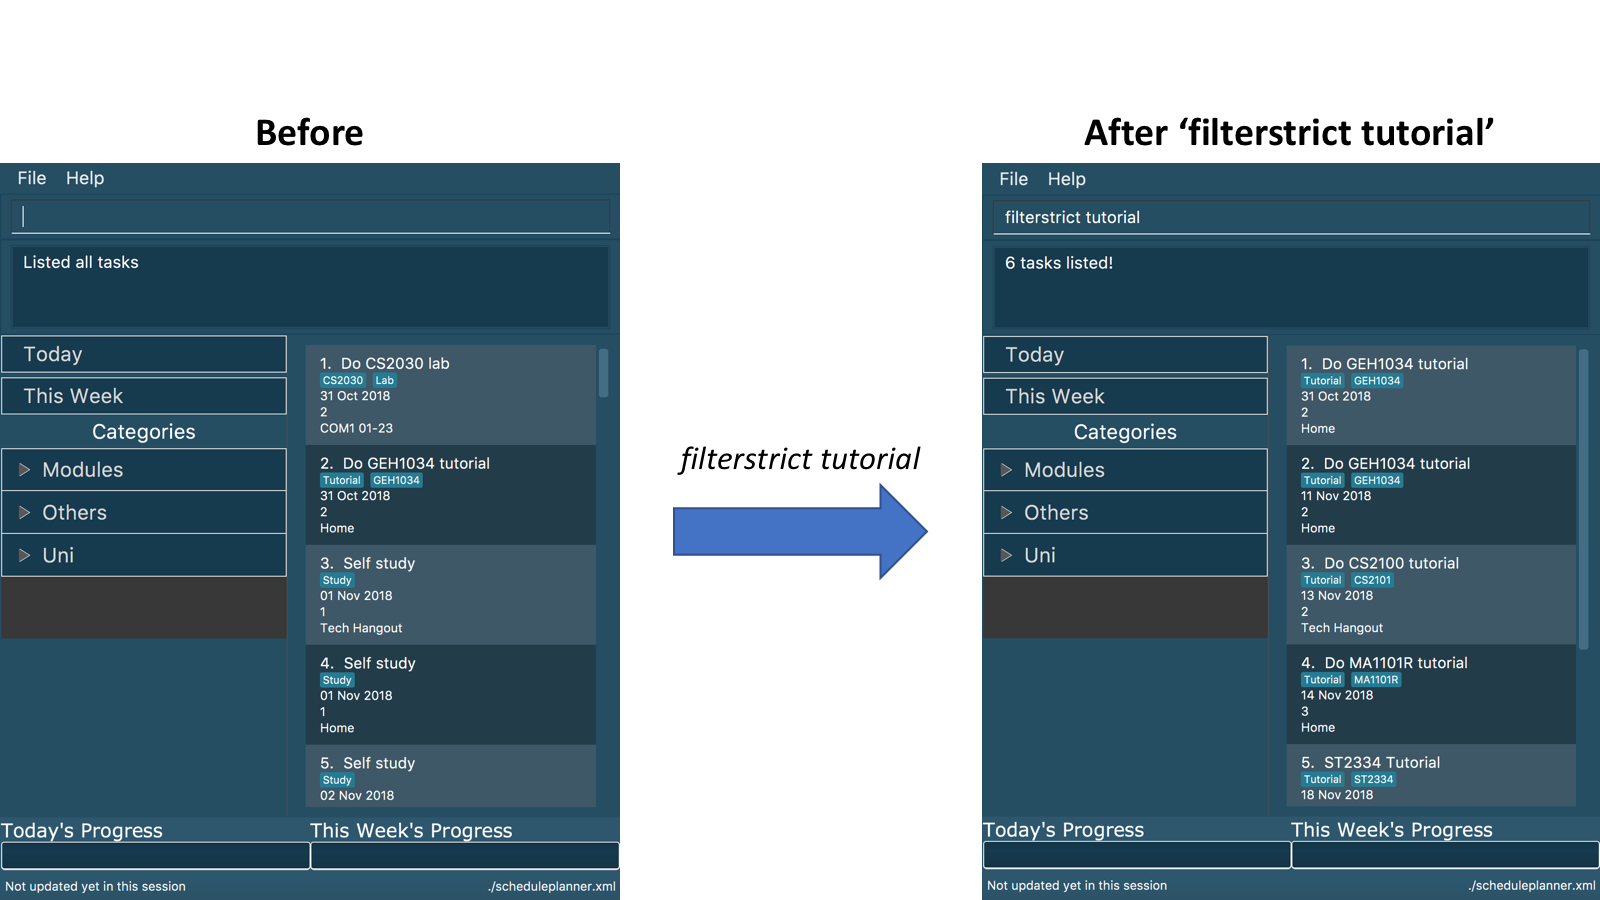
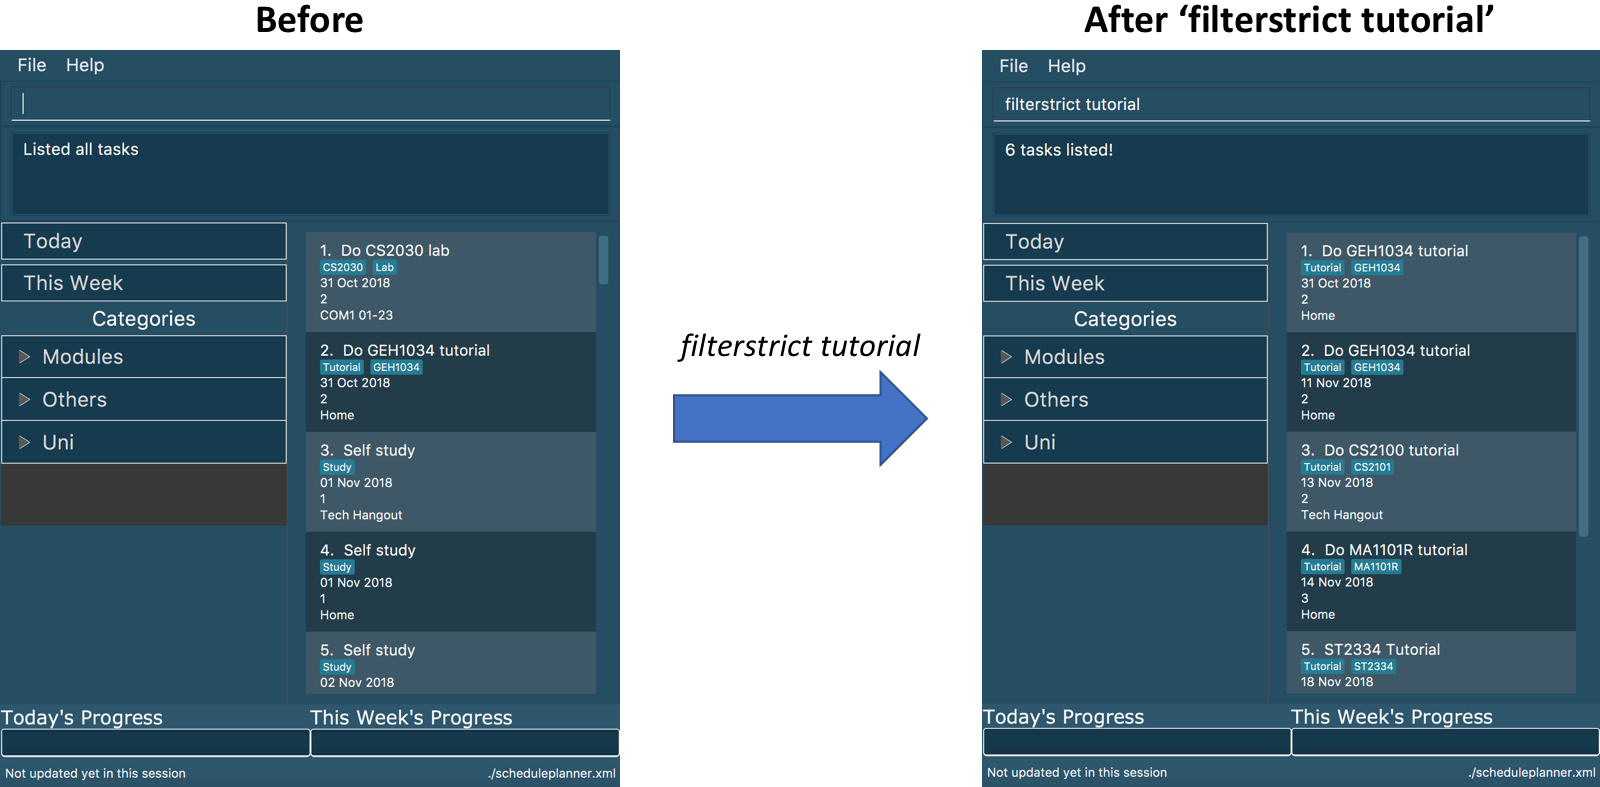
Rebuild pages at f556c0d7fc7fc05fd6a1696571651e71655f04cb

diff --git a/team/thaddeuslzy.html b/team/thaddeuslzy.html
@@ -141,56 +141,72 @@ listed instead of returning an error. This logic error was resolved.</p>
 <div class="ulist">
 <ul>
 <li>
-<p>Project management:</p>
+<p><strong>Project management</strong>:</p>
 <div class="ulist">
 <ul>
 <li>
-<p>Managed releases <code>v1.3.1</code> (1 release) on GitHub</p>
+<p>Managed releases <code>v1.3.1</code> (1 release) on GitHub:<br>
+<a href="https://github.com/CS2103-AY1819S1-T12-3/main/releases/tag/v1.3.1">1.3.1</a></p>
 </li>
 <li>
-<p>Morphed and transformed large sections of code in <strong>Address Book (Level 4)</strong> into current product <strong>Student Schedule
-Planner</strong> :</p>
+<p>Morphed large sections of code in <strong>Address Book (Level 4)</strong> into current product <strong>Student Schedule Planner</strong> :
+<a href="https://github.com/CS2103-AY1819S1-T12-3/main/pull/41">#41</a></p>
+</li>
+<li>
+<p>Added preloaded test cases for jar file, so that users may test commands:
+<a href="https://github.com/CS2103-AY1819S1-T12-3/main/pull/140">#140</a></p>
 </li>
 </ul>
 </div>
 </li>
 <li>
-<p>Documentation:</p>
+<p><strong>Documentation</strong>:</p>
 <div class="ulist">
 <ul>
 <li>
-<p>Enhanced Introduction for DevGuide</p>
+<p>Enhanced Introduction for DevGuide:
+<a href="https://github.com/CS2103-AY1819S1-T12-3/main/pull/77">#77</a></p>
 </li>
 <li>
-<p>Added Use Cases for DevGuide:</p>
+<p>Added Use Cases for DevGuide:
+<a href="https://github.com/CS2103-AY1819S1-T12-3/main/pull/115">#115</a></p>
 </li>
 <li>
-<p>Added Instructions for Manual Testing in Developer Guide:</p>
+<p>Added Instructions for Manual Testing in Developer Guide:
+<a href="https://github.com/CS2103-AY1819S1-T12-3/main/pull/251">#251</a></p>
 </li>
 <li>
-<p>Did cosmetic tweaks to existing contents of the User Guide:</p>
+<p>Improvements to flow of existing contents of the User Guide:
+<a href="https://github.com/CS2103-AY1819S1-T12-3/main/pull/64">#64</a> ,
+<a href="https://github.com/CS2103-AY1819S1-T12-3/main/pull/140">#140</a>,
+<a href="https://github.com/CS2103-AY1819S1-T12-3/main/pull/">#245</a> ,</p>
 </li>
 <li>
-<p>Did cosmetic tweaks to existing contents of the Developer Guide:</p>
+<p>Improvements to flow of existing contents of the Developer Guide:
+<a href="https://github.com/CS2103-AY1819S1-T12-3/main/pull/64">#64</a> ,
+<a href="https://github.com/CS2103-AY1819S1-T12-3/main/pull/87">#87</a> ,
+<a href="https://github.com/CS2103-AY1819S1-T12-3/main/pull/221">#221</a> ,
+<a href="https://github.com/CS2103-AY1819S1-T12-3/main/pull/224">#224</a> ,
+<a href="https://github.com/CS2103-AY1819S1-T12-3/main/pull/245">#245</a></p>
 </li>
 </ul>
 </div>
 </li>
 <li>
-<p>Community:</p>
+<p><strong>Community</strong>:</p>
 <div class="ulist">
 <ul>
 <li>
-<p>PRs reviewed (with non-trivial review comments):</p>
+<p>PRs reviewed (with non-trivial review comments):
+<a href="https://github.com/CS2103-AY1819S1-T12-3/main/pull/76">#76</a></p>
 </li>
 <li>
-<p>Reported bugs and suggestions for other teams in the class (examples:  <a href="https://github.com">1</a>, <a href="https://github.com">2</a>, <a href="https://github.com">3</a>)</p>
+<p>Reported bugs and suggestions for other teams in the class:
+Examples: <a href="https://github.com/CS2103-AY1819S1-T10-1/main/issues/110">1</a> ,
+<a href="https://github.com/CS2103-AY1819S1-T10-1/main/issues/106">2</a></p>
 </li>
 </ul>
 </div>
-</li>
-<li>
-<p>Tools:</p>
 </li>
 </ul>
 </div>
@@ -209,7 +225,8 @@ Planner</strong> :</p>
 </colgroup>
 <tbody>
 <tr>
-<td class="tableblock halign-left valign-top"><p class="tableblock"><em>Given below are sections I contributed to the User Guide. They showcase my ability to write documentation targeting end-users.</em></p></td>
+<td class="tableblock halign-left valign-top"><p class="tableblock"><em>Provided below are the sections I have contributed to the User Guide. They showcase my ability to write concise,
+and coherent documentation targeting end-users who are seeing the SSP application for the first time</em></p></td>
 </tr>
 </tbody>
 </table>
@@ -383,7 +400,9 @@ The search is case insensitive. e.g <code class="blue">apples</code> matches <co
 </colgroup>
 <tbody>
 <tr>
-<td class="tableblock halign-left valign-top"><p class="tableblock"><em>Given below are sections I contributed to the Developer Guide. They showcase my ability to write technical documentation and the technical depth of my contributions to the project.</em></p></td>
+<td class="tableblock halign-left valign-top"><p class="tableblock"><em>Given below are sections I contributed to the Developer Guide. They showcase my ability to write intelligible
+technical documentation to aid developers who are looking at the SSP for the first time. It also showcases the
+technical depth of my contributions to the project, and the value of improvements made to the SSP application.</em></p></td>
 </tr>
 </tbody>
 </table>
@@ -606,8 +625,209 @@ B, or both.</p>
 </div>
 </div>
 <div class="sect1">
-<h2 id="project-powerpointlabs"><a class="link" href="#project-powerpointlabs">PROJECT: PowerPointLabs</a></h2>
+<h2 id="use-cases"><a class="link" href="#use-cases">Use Cases</a></h2>
 <div class="sectionbody">
+<div class="paragraph">
+<p>(For all use cases below, the <strong>System</strong> is the <code>Student Schedule Planner</code> and the <strong>Actor</strong> is the <code>user</code>, unless specified otherwise)</p>
+</div>
+<h3 id="use-case-filter-tasks-according-to-tags-inclusive" class="discrete">Use case: Filter Tasks according to Tags (Inclusive)</h3>
+<div class="paragraph">
+<p><strong>MSS</strong></p>
+</div>
+<div class="olist arabic">
+<ol class="arabic">
+<li>
+<p>User requests to filter tasks by its tags from Student Schedule Planner.</p>
+</li>
+<li>
+<p>Student Schedule Planner filters the tasks with tags entered by user.</p>
+</li>
+<li>
+<p>Student Schedule Planner displays the filtered tasks.</p>
+<div class="paragraph">
+<p>Use case ends.</p>
+</div>
+</li>
+</ol>
+</div>
+<div class="paragraph">
+<p><strong>Extensions</strong></p>
+</div>
+<div class="ulist none">
+<ul class="none">
+<li>
+<p>1a. The filter task command did not follow the correct format.</p>
+<div class="ulist none">
+<ul class="none">
+<li>
+<p>1a1. Student Schedule Planner shows an error message.</p>
+<div class="paragraph">
+<p>Use case ends.</p>
+</div>
+</li>
+</ul>
+</div>
+</li>
+<li>
+<p>3a. The filtered task list is empty and thus displays an empty list.</p>
+<div class="paragraph">
+<p>Use case ends.</p>
+</div>
+</li>
+</ul>
+</div>
+<h3 id="use-case-filter-tasks-according-to-tags-exclusive" class="discrete">Use case: Filter Tasks according to Tags (Exclusive)</h3>
+<div class="paragraph">
+<p><strong>MSS</strong></p>
+</div>
+<div class="olist arabic">
+<ol class="arabic">
+<li>
+<p>User requests to strictly filter tasks by its tags from Student Schedule Planner.</p>
+</li>
+<li>
+<p>Student Schedule Planner strictly filters the tasks with tags entered by user.</p>
+</li>
+<li>
+<p>Student Schedule Planner displays the strictly filtered tasks.</p>
+<div class="paragraph">
+<p>Use case ends.</p>
+</div>
+</li>
+</ol>
+</div>
+<div class="paragraph">
+<p><strong>Extensions</strong></p>
+</div>
+<div class="ulist none">
+<ul class="none">
+<li>
+<p>1a. The filterstrict task command did not follow the correct format.</p>
+<div class="ulist none">
+<ul class="none">
+<li>
+<p>1a1. Student Schedule Planner shows an error message.</p>
+<div class="paragraph">
+<p>Use case ends.</p>
+</div>
+</li>
+</ul>
+</div>
+</li>
+<li>
+<p>3a. The strictly filtered task list is empty and thus displays an empty list.</p>
+<div class="paragraph">
+<p>Use case ends.</p>
+</div>
+</li>
+</ul>
+</div>
+<div class="sect2">
+<h3 id="use-case-list-tasks-due-until-the-end-of-the-month"><a class="link" href="#use-case-list-tasks-due-until-the-end-of-the-month">Use case: List tasks due until the end of the month</a></h3>
+<div class="paragraph">
+<p><strong>MSS</strong></p>
+</div>
+<div class="olist arabic">
+<ol class="arabic">
+<li>
+<p>User requests to view tasks due from the current date until the end of month from the Student Schedule Planner.</p>
+</li>
+<li>
+<p>Student Schedule Planner filters tasks from the range of current date until end of month</p>
+</li>
+<li>
+<p>Student Schedule Planner display list of tasks due from current date until end of month.</p>
+<div class="paragraph">
+<p>Use case ends.</p>
+</div>
+</li>
+</ol>
+</div>
+<div class="paragraph">
+<p><strong>Extensions</strong></p>
+</div>
+<div class="ulist none">
+<ul class="none">
+<li>
+<p>1a. The <code>listmonth</code> command did not follow the correct format.</p>
+<div class="ulist none">
+<ul class="none">
+<li>
+<p>1a1. Student Schedule Planner shows an error message.</p>
+<div class="paragraph">
+<p>Use case ends.</p>
+</div>
+</li>
+</ul>
+</div>
+</li>
+<li>
+<p>3a. The filtered task list is empty and thus displays an empty list.</p>
+<div class="paragraph">
+<p>Use case ends.</p>
+</div>
+</li>
+</ul>
+</div>
+</div>
+</div>
+</div>
+<div class="sect1">
+<h2 id="instructions-for-manual-testing"><a class="link" href="#instructions-for-manual-testing">Appendix A: Instructions for Manual Testing</a></h2>
+<div class="sectionbody">
+<div class="paragraph">
+<p>Given below are instructions to test the app manually.</p>
+</div>
+<div class="admonitionblock note">
+<table>
+<tr>
+<td class="icon">
+<i class="fa icon-note" title="Note"></i>
+</td>
+<td class="content">
+These instructions only provide a starting point for testers to work on; testers are expected to do more <em>exploratory</em> testing.
+</td>
+</tr>
+</table>
+</div>
+<div class="sect2">
+<h3 id="filtering-tasks"><a class="link" href="#filtering-tasks">Filtering Tasks</a></h3>
+<div class="olist arabic">
+<ol class="arabic">
+<li>
+<p>Viewing tasks due this month</p>
+<div class="olist loweralpha">
+<ol class="loweralpha" type="a">
+<li>
+<p>Test case: <code>listmonth</code><br>
+Expected: All task(s) that match the current system date until the end of the month will be reflected in the task
+list panel in the <code>UI</code>.</p>
+</li>
+<li>
+<p>Test case: <code>filter tutorial</code>
+Expected: All tasks that contain the tag <code>tutorial</code> will be reflected in the task list panel in the <code>UI</code>.</p>
+</li>
+<li>
+<p>Test case: <code>filter tutorial CS2100</code>
+Expected: All tasks that contain EITHER <code>tutorial</code>, <code>CS2100</code>, OR BOTH tags, will be  reflected in the task list
+panel in the <code>UI</code>.</p>
+</li>
+<li>
+<p>Test case: <code>filterstrict tutorial</code>
+Expected: All tasks that contain the tag <code>tutorial</code> will be reflected in the task list panel in the <code>UI</code>. Similar
+to <code>filter tutorial</code>.</p>
+</li>
+<li>
+<p>Test case: <code>filterstrict tutorial GEH1034</code>
+Expected: All tasks that contain BOTH <code>tutorial</code> and <code>GEH1034</code> tags will be reflected in the task list panel in
+the <code>UI</code></p>
+</li>
+</ol>
+</div>
+</li>
+</ol>
+</div>
 <hr>
 </div>
-</div></div><div id="footer"><div class="container"><div id="footer-text">Last updated 2018-11-12 10:37:33 UTC</div></div></div></body></html>
+</div>
+</div></div><div id="footer"><div class="container"><div id="footer-text">Last updated 2018-11-12 10:59:47 UTC</div></div></div></body></html>

diff --git a/HelpWindow.html b/HelpWindow.html
@@ -1842,4 +1842,4 @@ Example:<br>
 <strong>A</strong>: Install the app in the other computer and overwrite the empty data file it creates with the file that contains the data of your previous Schedule planner folder.</p>
 </div>
 </div>
-</div></div><div id="footer"><div class="container"><div id="footer-text">Last updated 2018-11-12 10:37:33 UTC</div></div></div></body></html>
+</div></div><div id="footer"><div class="container"><div id="footer-text">Last updated 2018-11-12 10:59:47 UTC</div></div></div></body></html>

diff --git a/UserGuide.html b/UserGuide.html
@@ -1842,4 +1842,4 @@ Example:<br>
 <strong>A</strong>: Install the app in the other computer and overwrite the empty data file it creates with the file that contains the data of your previous Schedule planner folder.</p>
 </div>
 </div>
-</div></div><div id="footer"><div class="container"><div id="footer-text">Last updated 2018-11-12 10:37:33 UTC</div></div></div></body></html>
+</div></div><div id="footer"><div class="container"><div id="footer-text">Last updated 2018-11-12 10:59:47 UTC</div></div></div></body></html>

diff --git a/team/woodnsuns.html b/team/woodnsuns.html
@@ -717,4 +717,4 @@ he/she may find it not so intuitive if next time he/she runs the app, the task c
 <p><em>{Optionally, you may include other projects in your portfolio.}</em></p>
 </div>
 </div>
-</div></div><div id="footer"><div class="container"><div id="footer-text">Last updated 2018-11-12 10:37:33 UTC</div></div></div></body></html>
+</div></div><div id="footer"><div class="container"><div id="footer-text">Last updated 2018-11-12 10:59:47 UTC</div></div></div></body></html>

diff --git a/ContactUs.html b/ContactUs.html
@@ -9,4 +9,4 @@
 <p><strong>Contributing</strong> : We welcome pull requests. Follow the process described <a href="https://github.com/oss-generic/process">here</a></p>
 </li>
 </ul>
-</div></div><div id="footer"><div class="container"><div id="footer-text">Last updated 2018-11-12 10:37:33 UTC</div></div></div></body></html>
+</div></div><div id="footer"><div class="container"><div id="footer-text">Last updated 2018-11-12 10:59:47 UTC</div></div></div></body></html>

diff --git a/DeveloperGuide.html b/DeveloperGuide.html
@@ -4015,4 +4015,4 @@ Expected: Status message displays that user has completed 20.00% of tasks for th
 </div>
 </div>
 </div>
-</div></div><div id="footer"><div class="container"><div id="footer-text">Last updated 2018-11-12 10:37:33 UTC</div></div></div></body></html>
+</div></div><div id="footer"><div class="container"><div id="footer-text">Last updated 2018-11-12 10:59:47 UTC</div></div></div></body></html>

diff --git a/team/hotarumin.html b/team/hotarumin.html
@@ -539,4 +539,4 @@ UI part ProgressBarPanel will handle this event and update the values for both t
 </div>
 </div>
 </div>
-</div></div><div id="footer"><div class="container"><div id="footer-text">Last updated 2018-11-12 10:37:33 UTC</div></div></div></body></html>
+</div></div><div id="footer"><div class="container"><div id="footer-text">Last updated 2018-11-12 10:59:47 UTC</div></div></div></body></html>

diff --git a/UsingGradle.html b/UsingGradle.html
@@ -255,4 +255,4 @@ See <code>build.gradle</code> &#8594; <code>allprojects</code> &#8594; <code>dep
 </ul>
 </div>
 </div>
-</div></div><div id="footer"><div class="container"><div id="footer-text">Last updated 2018-11-12 10:37:33 UTC</div></div></div></body></html>
+</div></div><div id="footer"><div class="container"><div id="footer-text">Last updated 2018-11-12 10:59:47 UTC</div></div></div></body></html>

diff --git a/UsingNetlify.html b/UsingNetlify.html
@@ -123,4 +123,4 @@ The publish directory is the directory in which the built HTML documentation res
 </ol>
 </div>
 </div>
-</div></div><div id="footer"><div class="container"><div id="footer-text">Last updated 2018-11-12 10:37:33 UTC</div></div></div></body></html>
+</div></div><div id="footer"><div class="container"><div id="footer-text">Last updated 2018-11-12 10:59:47 UTC</div></div></div></body></html>

diff --git a/UsingCoveralls.html b/UsingCoveralls.html
@@ -96,4 +96,4 @@ If you have not set up Travis CI, see <a href="UsingTravis.html">UsingTravis.ado
 </ol>
 </div>
 </div>
-</div></div><div id="footer"><div class="container"><div id="footer-text">Last updated 2018-11-12 10:37:33 UTC</div></div></div></body></html>
+</div></div><div id="footer"><div class="container"><div id="footer-text">Last updated 2018-11-12 10:59:47 UTC</div></div></div></body></html>

diff --git a/AboutUs.html b/AboutUs.html
@@ -95,4 +95,4 @@ Responsibilities: Ensures the testing of the project is done properly and on tim
 <hr>
 </div>
 </div>
-</div></div><div id="footer"><div class="container"><div id="footer-text">Last updated 2018-11-12 10:37:33 UTC</div></div></div></body></html>
+</div></div><div id="footer"><div class="container"><div id="footer-text">Last updated 2018-11-12 10:59:47 UTC</div></div></div></body></html>

diff --git a/team/park-sang-jun.html b/team/park-sang-jun.html
@@ -382,4 +382,4 @@ the number of tasks is small at any given point of time.</p>
 <div class="sectionbody">
 
 </div>
-</div></div><div id="footer"><div class="container"><div id="footer-text">Last updated 2018-11-12 10:37:33 UTC</div></div></div></body></html>
+</div></div><div id="footer"><div class="container"><div id="footer-text">Last updated 2018-11-12 10:59:47 UTC</div></div></div></body></html>
